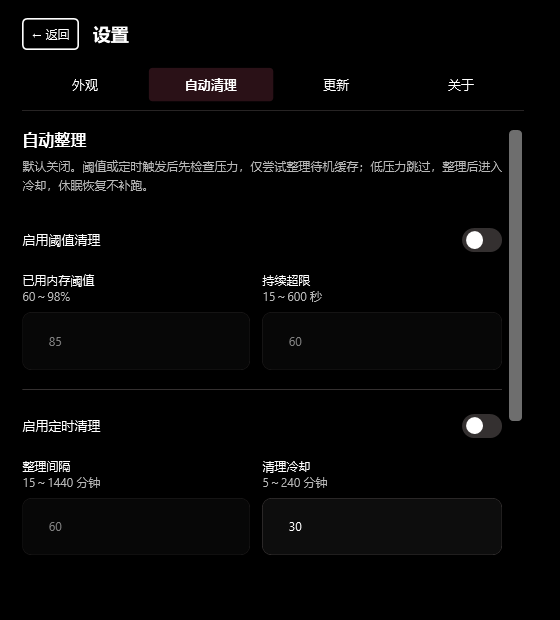
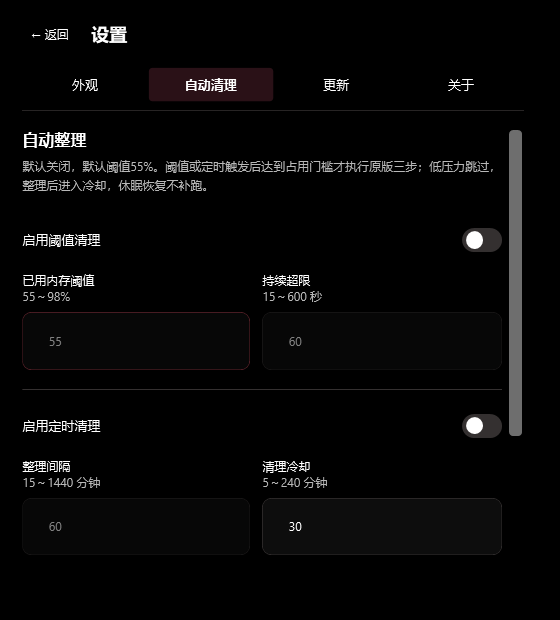
fix: 恢复原版三步并将默认自动阈值降低到55%

diff --git a/App/MainWindow.xaml b/App/MainWindow.xaml
@@ -85,7 +85,7 @@
                   <TextBlock Text="可用内存" FontSize="11" Foreground="{DynamicResource Muted}" Margin="0,5,0,0"/>
                 </StackPanel>
               </StackPanel>
-              <Button x:Name="CleanButton" Grid.Column="1" Content="检查并整理" Click="Clean_Click" VerticalAlignment="Center" Padding="14,8" MinHeight="36" Margin="10,0,0,0" Background="{DynamicResource Accent}" Foreground="{DynamicResource AccentText}" BorderBrush="{DynamicResource Accent}" AutomationProperties.Name="检查内存压力，必要时尝试整理待机缓存"/>
+              <Button x:Name="CleanButton" Grid.Column="1" Content="一键整理" Click="Clean_Click" VerticalAlignment="Center" Padding="14,8" MinHeight="36" Margin="10,0,0,0" Background="{DynamicResource Accent}" Foreground="{DynamicResource AccentText}" BorderBrush="{DynamicResource Accent}" AutomationProperties.Name="执行原版三步：裁剪工作集、刷新修改页、清理待机缓存"/>
             </Grid>
             <ProgressBar x:Name="MemoryBar" Height="4" Maximum="100" Foreground="{DynamicResource Text}" Background="{DynamicResource Line}" AutomationProperties.Name="物理内存使用率"/>
             <Grid Margin="0,10,0,0"><Grid.ColumnDefinitions><ColumnDefinition/><ColumnDefinition Width="Auto"/></Grid.ColumnDefinitions>
@@ -94,7 +94,7 @@
             </Grid>
           </StackPanel>
         </Border>
-        <TextBlock x:Name="StatusText" Text="低压力时跳过；必要时仅尝试整理待机缓存。" Style="{StaticResource Description}" Margin="0,12,0,16"/>
+        <TextBlock x:Name="StatusText" Text="默认原版三步整理，手动点击不受阈值限制；可能短暂卡顿或磁盘忙碌。" Style="{StaticResource Description}" Margin="0,12,0,16"/>
         <Border x:Name="ResultCard" BorderBrush="{DynamicResource Line}" BorderThickness="0,0,0,1" Padding="0,0,0,16" Visibility="Collapsed" Margin="0,0,0,16">
           <StackPanel>
             <Grid><Grid.ColumnDefinitions><ColumnDefinition/><ColumnDefinition Width="Auto"/></Grid.ColumnDefinitions><TextBlock x:Name="ResultTitle" Text="最近结果" FontSize="12" FontWeight="SemiBold"/><TextBlock x:Name="ResultMeta" Grid.Column="1" FontSize="10" Foreground="{DynamicResource Muted}" VerticalAlignment="Center"/></Grid>
@@ -143,17 +143,17 @@
                 <Border Style="{StaticResource SectionRule}"/><TextBlock Text="启动与后台" FontWeight="SemiBold" Margin="0,0,0,8"/>
                 <CheckBox x:Name="StartupCheck" Style="{StaticResource Switch}" Content="登录后启动到托盘" Click="Startup_Click"/><TextBlock Text="以管理员权限运行，仅对当前账户生效。" Style="{StaticResource Description}" Margin="0,2,50,12"/>
                 <CheckBox x:Name="CloseToTrayCheck" Style="{StaticResource Switch}" Content="关闭主窗口时收起到托盘" Click="Preferences_Click"/><TextBlock Text="最小化仍保留任务栏。托盘可以打开、整理或完全退出。" Style="{StaticResource Description}" Margin="0,2,50,0"/>
-                <Border Style="{StaticResource SectionRule}"/><CheckBox x:Name="IslandCheck" Style="{StaticResource Switch}" Content="底部整理岛" Click="Preferences_Click"/><TextBlock Text="靠近主屏任务栏上方中央时浮出，点击检查压力并按需整理待机缓存。离开后收回，全屏应用期间不浮出。" Style="{StaticResource Description}" Margin="0,2,50,0"/>
+                <Border Style="{StaticResource SectionRule}"/><CheckBox x:Name="IslandCheck" Style="{StaticResource Switch}" Content="底部整理岛" Click="Preferences_Click"/><TextBlock Text="靠近主屏任务栏上方中央时浮出，点击执行原版三步整理。离开后收回，全屏应用期间不浮出。" Style="{StaticResource Description}" Margin="0,2,50,0"/>
               </StackPanel>
               <StackPanel x:Name="AutomationSection" Visibility="Collapsed">
-                <TextBlock Text="自动整理" Style="{StaticResource SectionTitle}"/><TextBlock Text="默认关闭。阈值或定时触发后先检查压力，仅尝试整理待机缓存；低压力跳过，整理后进入冷却，休眠恢复不补跑。" Style="{StaticResource Description}" Margin="0,0,0,20"/>
+                <TextBlock Text="自动整理" Style="{StaticResource SectionTitle}"/><TextBlock Text="默认关闭，默认阈值55%。阈值或定时触发后达到占用门槛才执行原版三步；低压力跳过，整理后进入冷却，休眠恢复不补跑。" Style="{StaticResource Description}" Margin="0,0,0,20"/>
                 <CheckBox x:Name="ThresholdCheck" Style="{StaticResource Switch}" Content="启用阈值清理"/>
-                <Grid Margin="0,8,0,0"><Grid.ColumnDefinitions><ColumnDefinition/><ColumnDefinition/></Grid.ColumnDefinitions><StackPanel Margin="0,0,12,0"><TextBlock Text="已用内存阈值" FontSize="12"/><TextBlock Text="60～98%" Style="{StaticResource Description}"/><TextBox x:Name="ThresholdInput" IsEnabled="{Binding IsChecked, ElementName=ThresholdCheck}" AutomationProperties.Name="已用内存阈值百分比"/></StackPanel><StackPanel Grid.Column="1"><TextBlock Text="持续超限" FontSize="12"/><TextBlock Text="15～600 秒" Style="{StaticResource Description}"/><TextBox x:Name="SustainInput" IsEnabled="{Binding IsChecked, ElementName=ThresholdCheck}" AutomationProperties.Name="持续超限秒数"/></StackPanel></Grid>
+                <Grid Margin="0,8,0,0"><Grid.ColumnDefinitions><ColumnDefinition/><ColumnDefinition/></Grid.ColumnDefinitions><StackPanel Margin="0,0,12,0"><TextBlock Text="已用内存阈值" FontSize="12"/><TextBlock Text="55～98%" Style="{StaticResource Description}"/><TextBox x:Name="ThresholdInput" IsEnabled="{Binding IsChecked, ElementName=ThresholdCheck}" AutomationProperties.Name="已用内存阈值百分比"/></StackPanel><StackPanel Grid.Column="1"><TextBlock Text="持续超限" FontSize="12"/><TextBlock Text="15～600 秒" Style="{StaticResource Description}"/><TextBox x:Name="SustainInput" IsEnabled="{Binding IsChecked, ElementName=ThresholdCheck}" AutomationProperties.Name="持续超限秒数"/></StackPanel></Grid>
                 <Border Style="{StaticResource SectionRule}" Margin="0,9,0,12"/><CheckBox x:Name="TimerCheck" Style="{StaticResource Switch}" Content="启用定时清理"/>
                 <Grid Margin="0,8,0,0"><Grid.ColumnDefinitions><ColumnDefinition/><ColumnDefinition/></Grid.ColumnDefinitions><StackPanel Margin="0,0,12,0"><TextBlock Text="整理间隔" FontSize="12"/><TextBlock Text="15～1440 分钟" Style="{StaticResource Description}"/><TextBox x:Name="IntervalInput" IsEnabled="{Binding IsChecked, ElementName=TimerCheck}" AutomationProperties.Name="定时清理间隔分钟"/></StackPanel><StackPanel Grid.Column="1"><TextBlock Text="清理冷却" FontSize="12"/><TextBlock Text="5～240 分钟" Style="{StaticResource Description}"/><TextBox x:Name="CooldownInput" AutomationProperties.Name="清理冷却分钟"/></StackPanel></Grid>
-                <Border Style="{StaticResource SectionRule}" Margin="0,9,0,15"/><CheckBox x:Name="FullAutoCheck" IsEnabled="False"><TextBlock Text="旧版全三步自动整理（已停用）" TextWrapping="Wrap"/></CheckBox>
-                <TextBlock Text="自动模式不会裁剪全系统工作集或刷新修改页，也不保证降低内存占用或提速。旧版全三步自动策略需重新保存确认后才恢复运行。" Style="{StaticResource Description}" Margin="0,5,0,18"/>
-                <Button Content="确认保守策略并保存" Click="SaveAutomation_Click" HorizontalAlignment="Left"/><TextBlock x:Name="AutomationFeedback" Style="{StaticResource Description}" Margin="0,12,0,0"/><TextBlock Text="连续自动失败 3 次会暂停，重新保存设置可恢复。软件完全退出后不会执行自动清理。" Style="{StaticResource Description}" Margin="0,14,0,0"/>
+                <Border Style="{StaticResource SectionRule}" Margin="0,9,0,15"/><CheckBox x:Name="FullAutoCheck" IsEnabled="False" Visibility="Collapsed"/>
+                <TextBlock Text="自动步骤：裁剪全系统工作集 → 刷新修改页 → 清理待机缓存。可能增加缺页与磁盘活动，不保证提速。升级前已开启的自动规则需核对参数后重新确认保存。" Style="{StaticResource Description}" Margin="0,5,0,18"/>
+                <Button Content="确认三步规则并保存" Click="SaveAutomation_Click" HorizontalAlignment="Left"/><TextBlock x:Name="AutomationFeedback" Style="{StaticResource Description}" Margin="0,12,0,0"/><TextBlock Text="连续自动失败 3 次会暂停，重新保存设置可恢复。软件完全退出后不会执行自动清理。" Style="{StaticResource Description}" Margin="0,14,0,0"/>
               </StackPanel>
               <StackPanel x:Name="UpdatesSection" Visibility="Collapsed">
                 <TextBlock Text="版本与更新" Style="{StaticResource SectionTitle}"/><TextBlock Text="从正式发布获取更新，由你决定下载和生效时机。" Style="{StaticResource Description}" Margin="0,0,0,20"/>

diff --git a/App/MiniIsland.xaml b/App/MiniIsland.xaml
@@ -1,7 +1,7 @@
 <Window x:Class="ClickClean.MiniIsland" xmlns="http://schemas.microsoft.com/winfx/2006/xaml/presentation" xmlns:x="http://schemas.microsoft.com/winfx/2006/xaml" xmlns:local="clr-namespace:ClickClean"
         Title="Click-Clean 即清 · 底部岛" Width="216" Height="72" WindowStyle="None" AllowsTransparency="True" Background="Transparent" ResizeMode="NoResize" Topmost="True" ShowInTaskbar="False" ShowActivated="False" UseLayoutRounding="True" FontFamily="Segoe UI, Microsoft YaHei UI">
   <Grid ClipToBounds="True">
-    <Button x:Name="CleanButton" Width="184" Height="36" MinHeight="0" Padding="0" VerticalAlignment="Bottom" HorizontalAlignment="Center" Margin="0,0,0,12" Click="Clean_Click" Opacity="0" IsHitTestVisible="False" AutomationProperties.Name="点击底部岛，检查内存压力并按需整理待机缓存" PreviewMouseLeftButtonDown="Press" PreviewMouseLeftButtonUp="Release">
+    <Button x:Name="CleanButton" Width="184" Height="36" MinHeight="0" Padding="0" VerticalAlignment="Bottom" HorizontalAlignment="Center" Margin="0,0,0,12" Click="Clean_Click" Opacity="0" IsHitTestVisible="False" AutomationProperties.Name="点击底部岛，执行原版三步内存整理" PreviewMouseLeftButtonDown="Press" PreviewMouseLeftButtonUp="Release">
       <Button.RenderTransform><TransformGroup><ScaleTransform x:Name="PressScale"/><TranslateTransform x:Name="Slide" Y="48"/></TransformGroup></Button.RenderTransform>
       <Button.RenderTransformOrigin>0.5,0.5</Button.RenderTransformOrigin>
       <Button.Template><ControlTemplate TargetType="Button">

diff --git a/App/MainWindow.xaml.cs b/App/MainWindow.xaml.cs
@@ -73,7 +73,7 @@ public partial class MainWindow : Window
         {
             var menu = new System.Windows.Forms.ContextMenuStrip();
             menu.Items.Add("打开 Click-Clean 即清", null, (_, _) => Dispatcher.BeginInvoke(ShowMain));
-            menu.Items.Add("检查并整理", null, (_, _) => Dispatcher.BeginInvoke(async () => await RoutineCleanup()));
+            menu.Items.Add("一键整理", null, (_, _) => Dispatcher.BeginInvoke(async () => await RoutineCleanup()));
             menu.Items.Add("显示 / 收起桌面岛", null, (_, _) => Dispatcher.BeginInvoke(ToggleIsland));
             menu.Items.Add(new System.Windows.Forms.ToolStripSeparator());
             menu.Items.Add("退出", null, (_, _) => Dispatcher.BeginInvoke(TryExit));
@@ -103,7 +103,7 @@ public partial class MainWindow : Window
             }
             if (!preview)
             {
-                var trigger = automation.Evaluate(snapshot?.Load, IsBusy || applying || updates.Busy || store.Settings.Automation.FullCleanup);
+                var trigger = automation.Evaluate(snapshot?.Load, IsBusy || applying || updates.Busy || store.Settings.AutomationNeedsConfirmation);
                 if (trigger is not null)
                     _ = RoutineCleanup(trigger, true);
                 if (store.Settings.CheckUpdates && uptime.Elapsed.TotalSeconds >= nextUpdateCheck)
@@ -171,9 +171,10 @@ public partial class MainWindow : Window
     private async Task RoutineCleanup(string trigger = "手动", bool automatic = false)
     {
         if (IsBusy || applying) return;
+        if (automatic && store.Settings.AutomationNeedsConfirmation) return;
         MemorySnapshot? snapshot = null;
         try { snapshot = memory.Read(); } catch (Exception ex) { store.Log("压力检查失败：" + ex.Message); }
-        var plan = RoutineCleanupPolicy.Evaluate(snapshot, automatic ? store.Settings.Automation.ThresholdPercent : RoutineCleanupPolicy.DefaultPressurePercent);
+        var plan = RoutineCleanupPolicy.Evaluate(snapshot, store.Settings.Automation.ThresholdPercent, automatic);
         StatusText.Text = plan.Message;
         if (plan.Skipped)
         {
@@ -242,7 +243,7 @@ public partial class MainWindow : Window
             observingMemory = false; CancelButton.Content = "取消后续";
             CleanButton.IsEnabled = CustomButton.IsEnabled = Options.IsEnabled = true;
             if (mini is not null) { mini.CleanButton.IsEnabled = true; mini.IsWorking = false; }
-            CancelButton.Visibility = Visibility.Collapsed; CleanButton.Content = "检查并整理";
+            CancelButton.Visibility = Visibility.Collapsed; CleanButton.Content = "一键整理";
             RefreshMemory(); RefreshAutomationSummary(); UpdateChanged();
             if (exitRequested) TryExit();
         }
@@ -309,7 +310,7 @@ public partial class MainWindow : Window
             ThresholdInput.Text = a.ThresholdPercent.ToString(); SustainInput.Text = a.SustainSeconds.ToString();
             CooldownInput.Text = a.CooldownMinutes.ToString(); IntervalInput.Text = a.IntervalMinutes.ToString(); FullAutoCheck.IsChecked = a.FullCleanup;
             FullAutoCheck.IsEnabled = false;
-            AutomationFeedback.Text = a.FullCleanup ? "旧全量自动策略已暂停；保存设置即确认切换为仅待机缓存自动尝试，或关闭两个开关后保存。" : "";
+            AutomationFeedback.Text = store.Settings.AutomationNeedsConfirmation ? "本版自动整理改为原版三步，旧自动配置已暂停。已有阈值保留，默认值为55%；请核对后确认保存，或关闭两个开关后保存。" : "";
         }
         finally { loadingSettings = false; }
         ShowSettingsSection("appearance"); OpenOverlay("设置", true, animate);
@@ -404,17 +405,17 @@ public partial class MainWindow : Window
     }
     private void SaveAutomation_Click(object sender, RoutedEventArgs e)
     {
-        if (!ReadNumber(ThresholdInput, 60, 98, out var threshold) || !ReadNumber(SustainInput, 15, 600, out var sustain) ||
+        if (!ReadNumber(ThresholdInput, 55, 98, out var threshold) || !ReadNumber(SustainInput, 15, 600, out var sustain) ||
             !ReadNumber(IntervalInput, 15, 1440, out var interval) || !ReadNumber(CooldownInput, 5, 240, out var cooldown))
         { AutomationFeedback.Text = "请输入标注范围内的整数；设置尚未改变。"; return; }
-        var previous = store.Settings.Automation;
         var next = new AutomationSettings { ThresholdEnabled = ThresholdCheck.IsChecked == true, TimerEnabled = TimerCheck.IsChecked == true,
-            ThresholdPercent = threshold, SustainSeconds = sustain, IntervalMinutes = interval, CooldownMinutes = cooldown, FullCleanup = false };
-        if ((!previous.ThresholdEnabled && next.ThresholdEnabled || !previous.TimerEnabled && next.TimerEnabled || !previous.FullCleanup && next.FullCleanup) && !preview)
+            ThresholdPercent = threshold, SustainSeconds = sustain, IntervalMinutes = interval, CooldownMinutes = cooldown, FullCleanup = true };
+        if ((next.ThresholdEnabled || next.TimerEnabled) && !preview)
         {
-            if (MessageBox.Show(this, "自动模式先检查压力，只在达到门槛时尝试清理待机缓存；不裁剪全系统或刷盘，不保证降低使用率或提高性能。是否启用？", "启用自动清理", MessageBoxButton.YesNo, MessageBoxImage.Question) != MessageBoxResult.Yes) return;
+            if (MessageBox.Show(this, $"自动模式在达到 {threshold}% 占用门槛时执行原版三步：裁剪全系统工作集、刷新修改页、清理待机缓存。\n\n这可能造成缺页、短暂卡顿和磁盘忙碌，不保证提速。55% 在正常使用中也可能经常达到；冷却 {cooldown} 分钟。确认保存并启用所选自动规则？", "确认自动三步整理", MessageBoxButton.YesNo, MessageBoxImage.Warning) != MessageBoxResult.Yes) return;
         }
         store.Settings.Automation = next;
+        store.Settings.AutomationNeedsConfirmation = false;
         automation.Configure(next);
         if (activeAutomatic && !next.TimerEnabled && !next.ThresholdEnabled) cancellation?.Cancel();
         SaveSettings(); RefreshAutomationSummary(); AutomationFeedback.Text = preview ? "已保存预览设置，不会自动执行系统整理。" : "已保存。软件运行期间生效；连续失败暂停后可再次保存恢复。";
@@ -424,11 +425,11 @@ public partial class MainWindow : Window
     private void RefreshAutomationSummary()
     {
         var a = store.Settings.Automation;
-        if (a.FullCleanup && (a.ThresholdEnabled || a.TimerEnabled) && !IsBusy)
-            StatusText.Text = "旧全量自动策略已暂停，请在设置中确认保守策略；尚未替你修改开关。";
-        AutomationSummary.Text = a.FullCleanup ? "旧全量自动策略已暂停，请在自动清理设置中确认新策略。" : automation.Paused ? "自动清理已暂停：连续失败 3 次，请在设置中恢复。" :
+        if (store.Settings.AutomationNeedsConfirmation && (a.ThresholdEnabled || a.TimerEnabled) && !IsBusy)
+            StatusText.Text = "旧自动配置已暂停：本版恢复原版三步，请在设置中核对阈值并确认保存。";
+        AutomationSummary.Text = store.Settings.AutomationNeedsConfirmation ? "自动规则变更待确认；已有阈值和开关保留，尚未恢复执行。" : automation.Paused ? "自动清理已暂停：连续失败 3 次，请在设置中恢复。" :
             $"阈值：{(a.ThresholdEnabled ? a.ThresholdPercent + "% / " + a.SustainSeconds + "秒" : "关闭")}    定时：{(a.TimerEnabled ? a.IntervalMinutes + "分钟" : "关闭")}";
-        if (a.TimerEnabled && automation.TimerRemaining is { } remaining && !automation.Paused) AutomationSummary.Text += $"\n下一周期约 {Math.Ceiling(remaining.TotalMinutes):0} 分钟后；冷却 {a.CooldownMinutes} 分钟。";
+        if (a.TimerEnabled && automation.TimerRemaining is { } remaining && !automation.Paused && !store.Settings.AutomationNeedsConfirmation) AutomationSummary.Text += $"\n下一周期约 {Math.Ceiling(remaining.TotalMinutes):0} 分钟后；冷却 {a.CooldownMinutes} 分钟。";
     }
     private void Island_Click(object sender, RoutedEventArgs e) => ToggleIsland();
     private void ToggleIsland()

diff --git a/Diagnostics/Program.cs b/Diagnostics/Program.cs
@@ -53,13 +53,33 @@ public static class Program
         var defaultWidth = window.Width; var defaultHeight = window.Height;
         Assert(update.Checks == 1 && update.Downloads == 0 && update.Applies == 0, "首页加载自动检查，但不自动下载或应用（模拟服务）");
         var lastCleanup = store.Settings.LastCleanupUtc; var oldCount = store.History.Count;
+        memory.Available = 28UL << 30;
         ((Button)window.FindName("CleanButton")).RaiseEvent(new RoutedEventArgs(Button.ClickEvent));
-        Assert(memory.Calls.Count == 0 && memory.Privileges == 0 && !window.IsBusy && store.History.Count == oldCount && store.Settings.LastCleanupUtc == lastCleanup,
-            "低压力快捷入口真正跳过，不启权、不调用、不新增假成功历史或整理时间");
+        ((Button)window.FindName("CleanButton")).RaiseEvent(new RoutedEventArgs(Button.ClickEvent));
+        var lowManual = Stopwatch.StartNew(); while (window.IsBusy && lowManual.Elapsed.TotalSeconds < 3) await Task.Delay(10);
+        Assert(memory.Calls.SequenceEqual(Enum.GetValues<MemoryCommand>()) && memory.Privileges == 1 && !window.IsBusy && store.History.Count == oldCount + 1 && store.Settings.LastCleanupUtc == lastCleanup,
+            "低压力手动也按2/3/4执行原版三步，重复点击不并发；预览不修改真实整理时间");
+        memory.Calls.Clear();
         memory.Available = 4UL << 30;
         ((Button)window.FindName("CleanButton")).RaiseEvent(new RoutedEventArgs(Button.ClickEvent));
         var quick = Stopwatch.StartNew(); while (window.IsBusy && quick.Elapsed.TotalSeconds < 3) await Task.Delay(10);
-        Assert(!window.IsBusy && memory.Calls.SequenceEqual(new[] { MemoryCommand.StandbyCache }), "高压力快捷入口只执行待机缓存，不裁剪或刷盘");
+        Assert(!window.IsBusy && memory.Calls.SequenceEqual(Enum.GetValues<MemoryCommand>()), "高压力快捷入口同样按2/3/4执行原版三步");
+        Assert(store.Settings.Automation.ThresholdPercent == 55 && !store.Settings.Automation.ThresholdEnabled && !store.Settings.Automation.TimerEnabled, "新默认阈值55，自动开关仍默认关闭");
+        memory.Calls.Clear();
+        var automaticRoutine = typeof(MainWindow).GetMethod("RoutineCleanup", System.Reflection.BindingFlags.Instance | System.Reflection.BindingFlags.NonPublic)
+            ?? throw new InvalidOperationException("自动入口测试未找到实际执行方法。");
+        Task InvokeAutomatic() => (Task)automaticRoutine.Invoke(window, new object[] { "阈值（模拟）", true })!;
+        var automationPrivileges = memory.Privileges; var automationHistory = store.History.Count;
+        store.Settings.AutomationNeedsConfirmation = true;
+        await InvokeAutomatic();
+        Assert(memory.Calls.Count == 0 && memory.Privileges == automationPrivileges && store.History.Count == automationHistory, "旧自动配置待确认时不执行三步或新增历史");
+        store.Settings.AutomationNeedsConfirmation = false;
+        memory.Available = (32UL << 30) * 451 / 1000;
+        await InvokeAutomatic();
+        Assert(memory.Calls.Count == 0 && memory.Privileges == automationPrivileges && store.History.Count == automationHistory, "自动入口低于55门槛真正跳过，不计假清理");
+        memory.Available = (32UL << 30) * 450 / 1000;
+        await InvokeAutomatic();
+        Assert(memory.Calls.SequenceEqual(Enum.GetValues<MemoryCommand>()) && memory.Privileges == automationPrivileges + 1 && store.History.Count == automationHistory + 1, "自动入口达到55门槛按2/3/4执行，不再仅清待机");
         memory.Calls.Clear(); memory.Available = 12UL << 30;
         var buttons = new[] { "RepositoryLinkButton", "BlogLinkButton", "AuthorLinkButton" }.Select(name => (Button)window.FindName(name)).ToArray();
         foreach (var button in buttons) button.RaiseEvent(new RoutedEventArgs(Button.ClickEvent));
@@ -161,6 +181,16 @@ public static class Program
                     Assert(((TextBox)window.FindName("ThresholdInput")).IsEnabled == (thresholdToggle.IsChecked == true) &&
                         ((TextBox)window.FindName("SustainInput")).IsEnabled == (thresholdToggle.IsChecked == true) &&
                         ((TextBox)window.FindName("IntervalInput")).IsEnabled == (timerToggle.IsChecked == true), "关闭自动策略时对应输入显示为停用：" + theme);
+                    var saveAutomatic = Descendants((FrameworkElement)window.FindName("AutomationSection")).OfType<Button>().Single(button => button.Content as string == "确认三步规则并保存");
+                    var thresholdField = (TextBox)window.FindName("ThresholdInput");
+                    thresholdToggle.IsChecked = true; thresholdField.Text = "54";
+                    saveAutomatic.RaiseEvent(new RoutedEventArgs(Button.ClickEvent));
+                    Assert(!store.Settings.Automation.ThresholdEnabled && store.Settings.Automation.ThresholdPercent == 55, "界面拒绝54且不悄悄保存或启用：" + theme);
+                    store.Settings.AutomationNeedsConfirmation = true; thresholdField.Text = "55";
+                    saveAutomatic.RaiseEvent(new RoutedEventArgs(Button.ClickEvent));
+                    Assert(store.Settings.Automation.ThresholdEnabled && store.Settings.Automation.ThresholdPercent == 55 && store.Settings.Automation.FullCleanup && !store.Settings.AutomationNeedsConfirmation, "界面可保存55并明确确认原版三步策略（预览不执行）：" + theme);
+                    thresholdToggle.IsChecked = false; saveAutomatic.RaiseEvent(new RoutedEventArgs(Button.ClickEvent));
+                    Assert(!store.Settings.Automation.ThresholdEnabled && !store.Settings.Automation.TimerEnabled, "关闭自动规则并保存后恢复停用：" + theme);
                 }
                 foreach (var scale in new[] { 1d, 1.25, 1.5, 1.75, 2d }) window.RenderTo(Path.Combine(output, $"{theme}-{section}-{scale * 100:0}.png"), scale);
             }

diff --git a/Core/Store.cs b/Core/Store.cs
@@ -4,7 +4,8 @@ namespace ClickClean.Core;
 
 public sealed class UserSettings
 {
-    public int SchemaVersion { get; set; } = 3;
+    public int SchemaVersion { get; set; } = 4;
+    public bool AutomationNeedsConfirmation { get; set; }
     public bool Startup { get; set; }
     public string Theme { get; set; } = "system";
     public bool ReduceMotion { get; set; }
@@ -14,7 +15,7 @@ public sealed class UserSettings
     public bool AutoDownloadUpdates { get; set; }
     public bool AutoApplyHidden { get; set; }
     public AutomationSettings Automation { get; set; } = new();
-    public MemoryCommand[] SelectedSteps { get; set; } = [];
+    public MemoryCommand[] SelectedSteps { get; set; } = [MemoryCommand.WorkingSets, MemoryCommand.ModifiedPages, MemoryCommand.StandbyCache];
     public DateTimeOffset? LastCleanupUtc { get; set; }
     public void Validate()
     {
@@ -22,7 +23,12 @@ public sealed class UserSettings
         if (SchemaVersion < 2) { MiniIsland = true; SchemaVersion = 2; }
         // 兼容读取旧字段，但新版只允许用户点击下载和重启应用。
         AutoDownloadUpdates = false; AutoApplyHidden = false;
-        if (SchemaVersion < 3) SchemaVersion = 3;
+        if (SchemaVersion < 4)
+        {
+            // 不把旧版已启用的温和自动规则无声升级为裁剪和刷盘。
+            AutomationNeedsConfirmation |= Automation?.ThresholdEnabled == true || Automation?.TimerEnabled == true;
+            SchemaVersion = 4;
+        }
         Theme = Theme is "light" or "dark" ? Theme : "system";
         Automation = (Automation ?? new()).Validated();
         SelectedSteps = (SelectedSteps ?? []).Where(Enum.IsDefined).Distinct().Order().ToArray();
@@ -67,7 +73,11 @@ public sealed class Store
             var path = Path.Combine(Root, "settings.json");
             if (!File.Exists(path)) return new();
             if (new FileInfo(path).Length > 1_000_000) throw new IOException("设置文件过大。");
-            return JsonSerializer.Deserialize<UserSettings>(File.ReadAllText(path)) ?? new();
+            using var document = JsonDocument.Parse(File.ReadAllText(path));
+            var settings = document.RootElement.Deserialize<UserSettings>() ?? new();
+            // 老文件没有 schema 时也必须走升级确认，不能误认成新安装。
+            if (!document.RootElement.TryGetProperty(nameof(UserSettings.SchemaVersion), out _)) settings.SchemaVersion = 1;
+            return settings;
         }
         catch (Exception ex) { Log("读取设置失败，使用默认值：" + ex.Message); return new(); }
     }

diff --git a/Core/RoutineCleanupPolicy.cs b/Core/RoutineCleanupPolicy.cs
@@ -8,14 +8,16 @@ public sealed record RoutineCleanupPlan(MemoryCommand[] Commands, string Message
 public static class RoutineCleanupPolicy
 {
     // 产品启发式，不是 Windows 官方健康阈值，也不证明存在可安全回收的内存。
-    public const int DefaultPressurePercent = 85;
-    public static RoutineCleanupPlan Evaluate(MemorySnapshot? snapshot, int threshold = DefaultPressurePercent)
+    public const int DefaultPressurePercent = 55;
+    public static RoutineCleanupPlan Evaluate(MemorySnapshot? snapshot, int threshold = DefaultPressurePercent, bool automatic = false)
     {
-        if (threshold is < 60 or > 98) throw new ArgumentOutOfRangeException(nameof(threshold));
+        if (threshold is < 55 or > 98) throw new ArgumentOutOfRangeException(nameof(threshold));
         if (snapshot is null || snapshot.Total == 0 || snapshot.Total > long.MaxValue || snapshot.Available > snapshot.Total)
             return new([], "内存状态未知，未执行整理。");
-        return snapshot.Load < threshold
+        // 手动点击就是执行意图，门槛仅用于无人值守的自动触发。
+        return automatic && snapshot.Load < threshold
             ? new([], $"当前占用 {snapshot.Load:0}% 未达到 {threshold}% 整理门槛，未调用系统整理接口。")
-            : new([MemoryCommand.StandbyCache], "尝试整理待机缓存；缓存本已计入可用内存，不保证降低占用率或提速。");
+            : new([MemoryCommand.WorkingSets, MemoryCommand.ModifiedPages, MemoryCommand.StandbyCache],
+                "原版三步：裁剪全系统工作集 → 刷新修改页 → 清理待机缓存；可能短暂卡顿或磁盘忙碌。");
     }
 }

diff --git a/Core/AutomationPolicy.cs b/Core/AutomationPolicy.cs
@@ -3,14 +3,16 @@ namespace ClickClean.Core;
 public sealed record AutomationSettings
 {
     public bool ThresholdEnabled { get; init; }
-    public int ThresholdPercent { get; init; } = 85;
+    public int ThresholdPercent { get; init; } = RoutineCleanupPolicy.DefaultPressurePercent;
     public int SustainSeconds { get; init; } = 60;
     public int CooldownMinutes { get; init; } = 30;
     public bool TimerEnabled { get; init; }
     public int IntervalMinutes { get; init; } = 60;
-    public bool FullCleanup { get; init; }
+    public bool FullCleanup { get; init; } = true;
     public AutomationSettings Validated() => this with {
-        ThresholdPercent = Math.Clamp(ThresholdPercent, 60, 98),
+        ThresholdPercent = Math.Clamp(ThresholdPercent, 55, 98),
+        // 兼容旧字段；新版自动步骤固定为原版三步，升级后需重新确认。
+        FullCleanup = true,
         SustainSeconds = Math.Clamp(SustainSeconds, 15, 600),
         CooldownMinutes = Math.Clamp(CooldownMinutes, 5, 240),
         IntervalMinutes = Math.Clamp(IntervalMinutes, 15, 1440)

diff --git a/docs/verification-2.3.1.md b/docs/verification-2.3.1.md
@@ -1,0 +1,35 @@
+# 2.3.1 原版规则恢复验收
+
+日期：2026-10-03。本版按用户新要求恢复原版清理规则，不再沿用2.3.0保守默认策略。该记录是本地验证，不代表已公开发布或已替用户安装。
+
+## 实际行为
+
+- 首页、托盘与底部岛统一执行命令2、3、4：裁剪全系统工作集、刷新修改页、清理待机缓存；手动操作不受占用阈值限制。未知或无效快照仍停止。
+- 自动默认阈值55%，输入、验证、存储范围55～98%。自动开关默认关闭；阈值持续60秒、30分钟冷却、5个百分点迟滞、定时低占用跳过、并发与连续失败保护保留。达到门槛的自动整理也是原版三步。
+- 新安装高级选择默认为三项，旧高级选择及空选择保留；高级选择不改变快捷入口。
+- 已有阈值不静默覆盖。schema4将旧版已开启的自动配置标为待确认，保存启用规则时显示裁剪与刷盘代价，确认状态持久保存。无schema的旧文件同样迁移确认，不能误判成新安装。
+- 更新仍由用户手动下载和重启，未恢复自动更新。
+
+## 回归证据
+
+先添加“手动低占用也执行三步”的回归断言，在2.3.0代码上失败，证实旧入口直接跳过。这里是已知产品策略的反转，不是假定系统API失效；无需臆造硬件或权限故障来解释结果。随后修改策略与范围验证，并同步应用入口。
+
+Core最终通过 **38组测试**，覆盖原有7种自定义组合、3种失败位置、权限恢复、取消、并发、即时与复测，新增55%边界、低占用手动三步、默认开关关闭、55%持续时间及50%重新武装、旧配置确认、保留旧阈值与无schema迁移。
+
+诊断程序最终通过 **190项界面断言**，包含原有浅深色、100%～200%离屏渲染、窄窗口、键盘焦点、桌面岛、手动更新，以及实际应用执行入口的模拟验证：
+
+- 低占用和高占用手动操作均按2/3/4调用，重复点击不并发。
+- 待确认自动配置不执行；自动低于55%不执行，达到55%执行三步。
+- 界面拒绝54而不保存，不意外开启自动规则；55能够保存且清除待确认；关闭规则后确实停用。
+
+自动入口验证通过反射调用源码中实际的私有RoutineCleanup方法，使用注入的模拟API，不另写一个假业务实现。截图明确标注模拟数据，数字不是本机实际释放量。证据位于工作区outputs/Click-Clean-2.3.1-ui-check/verification.json与对应PNG。断言总数包含50次焦点遍历，并非190个独立场景。离屏倍率不等同真实Windows显示缩放，高对比及特殊任务栏仍需对应环境验收。
+
+隐藏采样诊断的约30.03秒整机归一化CPU为0.029%，工作集157.54MiB、私有内存114.80MiB；含前置截图分配，不代表正式软件稳态占用。诊断进程自行结束。本轮未进行真实内存整理、安装/卸载、计划任务变更或真实更新替换，未修改当前安装及用户数据。
+
+## 效果边界
+
+原版三步确实恢复了更强干预，而不是改写统计数值。但裁剪不等于释放全部应用分配：页面之后仍可能重新进入工作集，修改页也需要写回；更多可用内存不能证明程序提速。参见[微软工作集说明](https://learn.microsoft.com/en-us/windows/win32/memory/working-set)。待机列表本来就计入可用内存，参见[微软性能计数结构说明](https://learn.microsoft.com/en-us/windows/win32/api/psapi/ns-psapi-performance_information)。
+
+55%是用户指定的触发参数，不是系统低内存通知。正常使用也可能达到这一比例，因此自动开关仍默认关闭，不默默把旧温和规则升级成自动刷盘。保留返回码、即时/复测、负值与观测错误，而不是承诺每次固定释放或更快。
+
+安装包仍未签名。最终包构建与更新传输验证状态以输出目录相应日志为准；未覆盖旧版发行资产。

diff --git a/docs/architecture.md b/docs/architecture.md
@@ -1,6 +1,6 @@
 # 架构与兼容性
 
-MainWindow、MiniIsland 与托盘快捷动作通过 RoutineCleanupPolicy 统一压力检查：低压力或未知跳过，高压力仅尝试待机缓存。手动高级操作经显式选择及警告确认后进入 MemoryEngine。引擎原子锁覆盖调用与复测，步骤失败即停，权限恢复后异步复测，观测错误与调用错误分开。AutomationPolicy 负责周期、持续、迟滞和冷却；旧全量自动暂停，待用户确认新保守策略，不静默擦除原设置。
+MainWindow、MiniIsland 与托盘快捷动作通过 RoutineCleanupPolicy 统一执行原版三步。手动点击不检查占用门槛，自动触发才按配置阈值（新默认55%）判断；未知或无效快照安全跳过。手动高级操作经显式选择及警告确认后进入 MemoryEngine。引擎原子锁覆盖调用与复测，步骤失败即停，权限恢复后异步复测，观测错误与调用错误分开。AutomationPolicy 负责周期、持续、迟滞和冷却；设置 schema 4 以 AutomationNeedsConfirmation 暂停旧已启用自动规则，待用户核对阈值并确认三步，不静默覆盖已有参数。FullCleanup 兼容旧字段但固定为三步。
 
 Core 不依赖 WPF：包含系统 API、引擎、结果、自动策略、设置及存储。App 负责 WPF、托盘、计划任务和 Velopack 集成。Tests 模拟 API 和时间；Diagnostics 独立提供无副作用界面预览与明确选择的真实系统检查。
 

diff --git a/CHANGELOG.md b/CHANGELOG.md
@@ -1,5 +1,13 @@
 # 更新记录
 
+## 2.3.1
+
+- 按用户新要求恢复原版三步：首页、托盘、底部岛手动点击均按工作集裁剪 → 修改页刷新 → 待机清理执行，不因低占用跳过；未知读数仍安全停止。
+- 默认自动阈值由85%降低到55%，合法范围55～98%；自动开关仍默认关闭，持续超限、冷却、迟滞、连续失败暂停和防并发不变。
+- 自动触发达到配置门槛后也执行原版三步，保存启用规则时明确确认裁剪、缺页与刷盘代价。升级已有自动规则先暂停，需重新确认；不静默覆盖既有阈值和开关。
+- 新用户高级选择默认三项；已有手动选择及空选择保留。保留真实返回码、即时/复测观测和手动更新，不承诺固定释放量或提速。
+- 增加手动低占用仍执行三步、55%边界、自动入口、持续超限和升级确认状态的回归验证。
+
 ## 2.3.0
 
 - Astra 重构首页为 560×620 的平面工具布局：去除巨型数字卡、通栏操作和嵌套大圆角；设置行式、历史分隔列表、高级信息折叠。作者三个不同图标文字入口与最初图标保留。
